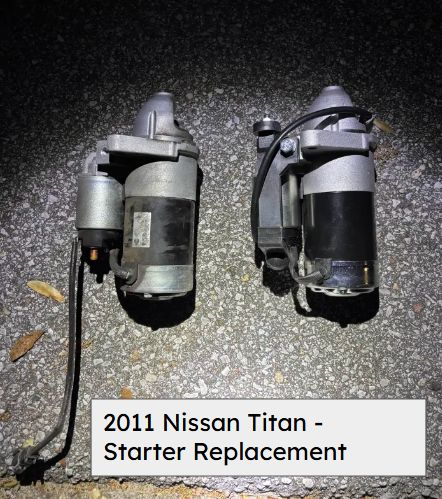
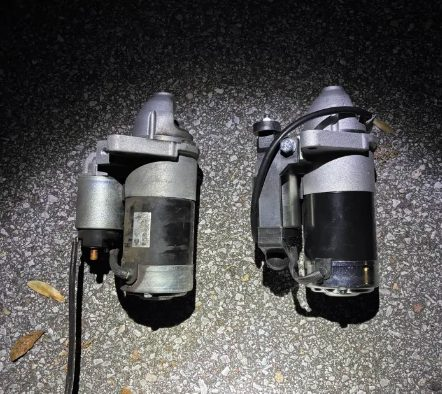
Pensacola: add Titan starter and Trax valve cover work cards (captions cropped)

diff --git a/pensacola/index.html b/pensacola/index.html
@@ -218,6 +218,24 @@
             <figcaption><strong>Brakes, rotors, and calipers replacement</strong><span>2018 RAM 1500</span></figcaption>
           </figure>
         </li>
+        <li class="work-item">
+          <figure>
+            <picture>
+              <source srcset="/assets/work/2011-nissan-titan-starter.webp" type="image/webp">
+              <img src="/assets/work/2011-nissan-titan-starter.jpg" alt="Old and new starter motors side by side from a 2011 Nissan Titan" width="442" height="394" loading="lazy" decoding="async">
+            </picture>
+            <figcaption><strong>Starter replacement</strong><span>2011 Nissan Titan</span></figcaption>
+          </figure>
+        </li>
+        <li class="work-item">
+          <figure>
+            <picture>
+              <source srcset="/assets/work/2015-chevy-trax-valve-cover.webp" type="image/webp">
+              <img src="/assets/work/2015-chevy-trax-valve-cover.jpg" alt="Engine of a 2015 Chevy Trax with the valve cover removed and the new gasket laid out" width="405" height="394" loading="lazy" decoding="async">
+            </picture>
+            <figcaption><strong>Valve cover and gasket replacement</strong><span>2015 Chevy Trax</span></figcaption>
+          </figure>
+        </li>
       </ul>
     </div>
   </section>

diff --git a/index.html b/index.html
@@ -233,7 +233,7 @@
           <figure>
             <picture>
               <source srcset="assets/work/2011-nissan-titan-starter.webp" type="image/webp">
-              <img src="assets/work/2011-nissan-titan-starter.jpg" alt="Old and new starter motors side by side from a 2011 Nissan Titan" width="442" height="499" loading="lazy" decoding="async">
+              <img src="assets/work/2011-nissan-titan-starter.jpg" alt="Old and new starter motors side by side from a 2011 Nissan Titan" width="442" height="394" loading="lazy" decoding="async">
             </picture>
             <figcaption><strong>Starter replacement</strong><span>2011 Nissan Titan</span></figcaption>
           </figure>
